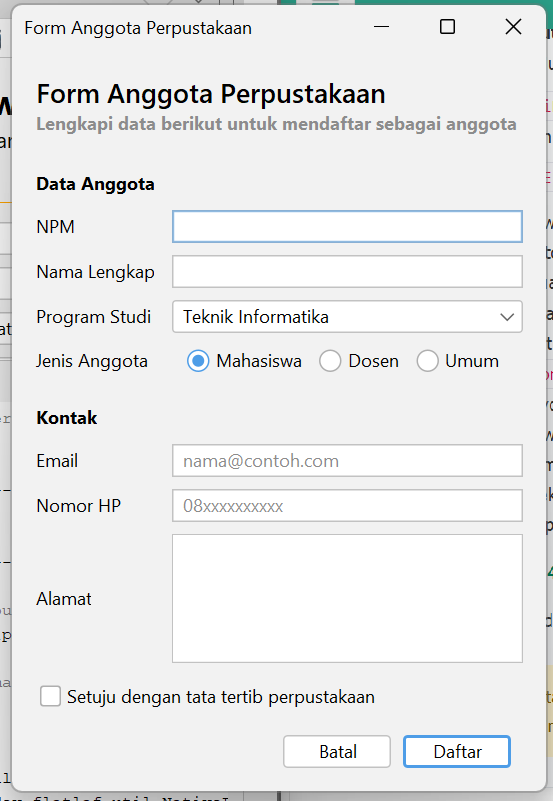
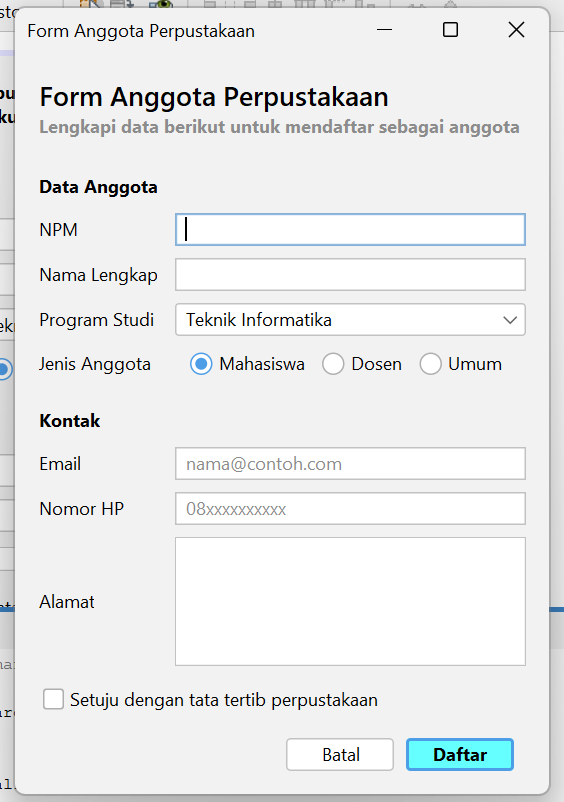
Ganti gambar dan perbaiki tampilan FormAnggotaPerpustakaan

diff --git a/p04-layout-manager/src/main/java/id/ac/uniska/pbo2/p04/FormAnggotaPerpustakaan.java b/p04-layout-manager/src/main/java/id/ac/uniska/pbo2/p04/FormAnggotaPerpustakaan.java
@@ -265,7 +265,10 @@ public class FormAnggotaPerpustakaan extends javax.swing.JFrame {
         batalButton.setText("Batal");
         tombolPanel.add(batalButton);
 
+        daftarButton.setBackground(new java.awt.Color(102, 255, 255));
+        daftarButton.setFont(new java.awt.Font("Segoe UI", 1, 12)); // NOI18N
         daftarButton.setText("Daftar");
+        daftarButton.addActionListener(this::daftarButtonActionPerformed);
         tombolPanel.add(daftarButton);
 
         getContentPane().add(tombolPanel, java.awt.BorderLayout.SOUTH);
@@ -276,6 +279,10 @@ public class FormAnggotaPerpustakaan extends javax.swing.JFrame {
     private void hpFieldActionPerformed(java.awt.event.ActionEvent evt) {//GEN-FIRST:event_hpFieldActionPerformed
         // TODO add your handling code here:
     }//GEN-LAST:event_hpFieldActionPerformed
+
+    private void daftarButtonActionPerformed(java.awt.event.ActionEvent evt) {//GEN-FIRST:event_daftarButtonActionPerformed
+        // TODO add your handling code here:
+    }//GEN-LAST:event_daftarButtonActionPerformed
 
     /**
      * @param args the command line arguments
